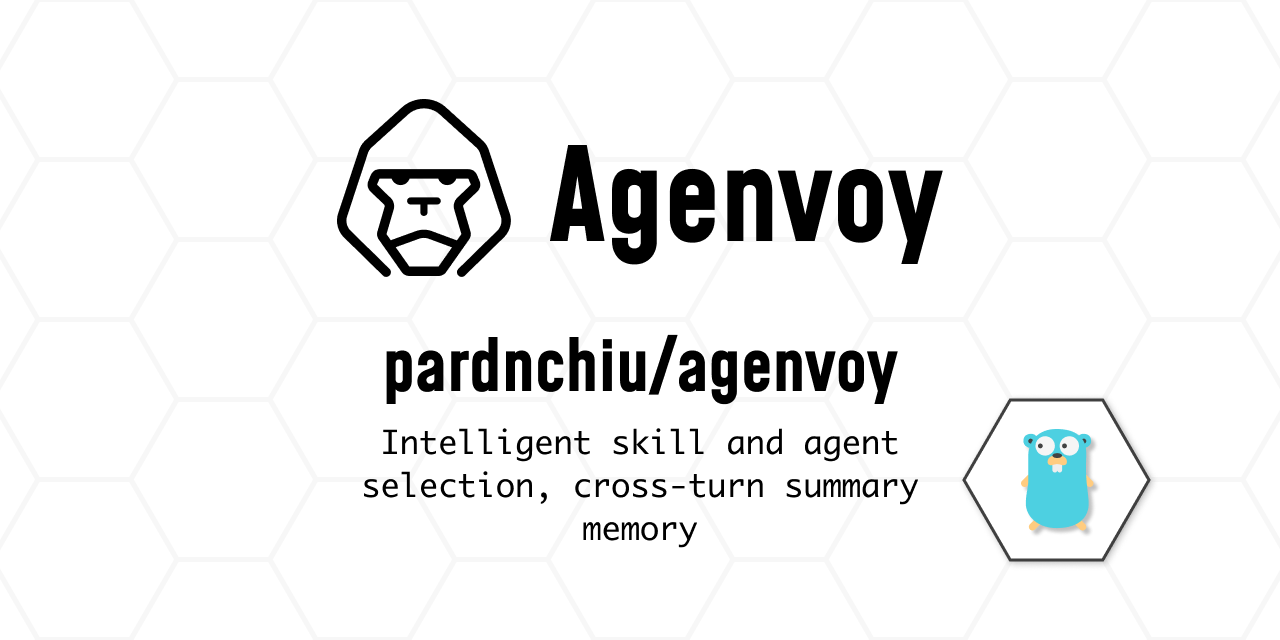
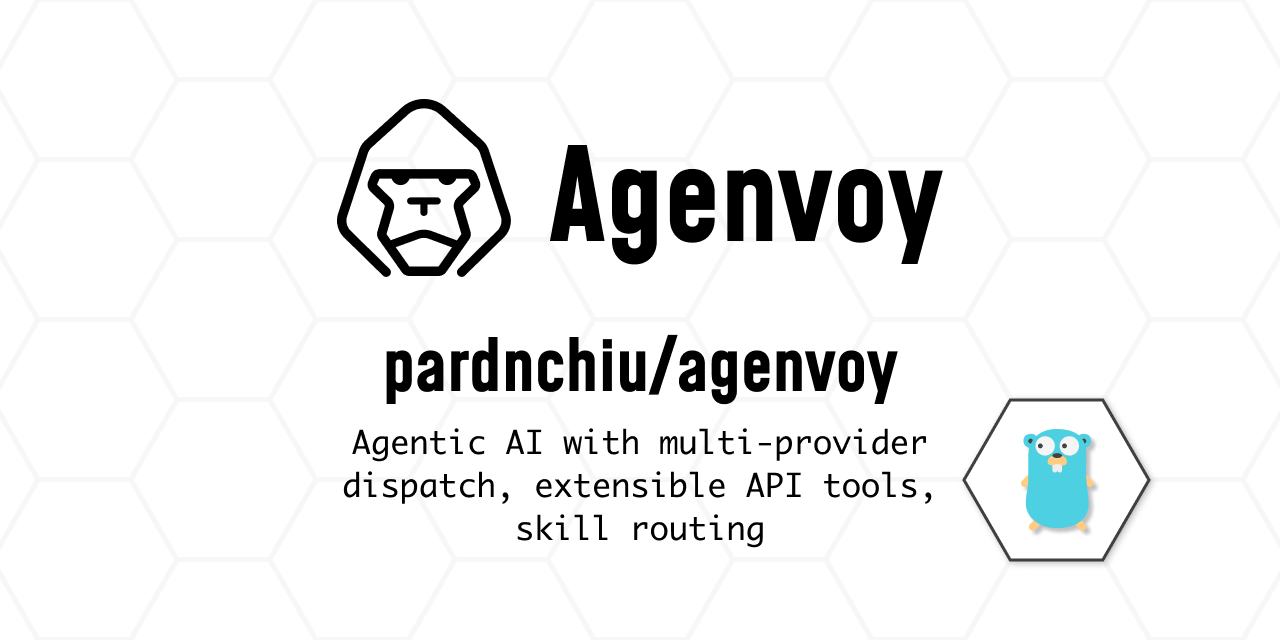
fix: Handle agent send errors gracefully instead of propagating to exit and add public API extensions for geocoding, finance, and data sources

Changed region(s): [[0.25, 0.6562, 0.7188, 0.8438]]

diff --git a/index.html b/index.html
@@ -18,9 +18,9 @@
     <meta name="title" content="AGENVOY — Agentic AI platform — 邱敬幃 Pardn Chiu" />
     <meta
       name="description"
-      content="A Go-based agentic AI platform with intent-to-skill routing, multi-provider LLM dispatch, cross-turn memory, and zero-code REST API tool mounting."
+      content="A Go agentic AI platform with multi-provider dispatch, extensible API tools, skill routing, and Discord bot integration"
     />
-    <meta name="keywords" content="go, golang, backend, agenttools, agentic-ai, agentskills, pardnchiu, 邱敬幃" />
+    <meta name="keywords" content="go, golang, agentic-ai, openclaw, 小龍蝦, pardnchiu, 邱敬幃" />
     <meta name="author" content="邱敬幃 Pardn Chiu" />
     <link rel="author" href="https://pardn.io" />
     <link rel="canonical" href="https://agenvoy.com/" />
@@ -32,7 +32,7 @@
     <meta property="og:title" content="AGENVOY — Agentic AI platform — 邱敬幃 Pardn Chiu" />
     <meta
       property="og:description"
-      content="A Go-based agentic AI platform with intent-to-skill routing, multi-provider LLM dispatch, cross-turn memory, and zero-code REST API tool mounting."
+      content="A Go agentic AI platform with multi-provider dispatch, extensible API tools, skill routing, and Discord bot integration"
     />
     <meta property="og:image" content="https://agenvoy.com/doc/cover.png" />
     <meta property="og:url" content="https://agenvoy.com/" />
@@ -45,7 +45,7 @@
     <meta property="twitter:title" content="AGENVOY — Intelligent skill and agent selection — 邱敬幃 Pardn Chiu" />
     <meta
       property="twitter:description"
-      content="A Go-based agentic AI platform with intent-to-skill routing, multi-provider LLM dispatch, cross-turn memory, and zero-code REST API tool mounting."
+      content="A Go agentic AI platform with multi-provider dispatch, extensible API tools, skill routing, and Discord bot integration"
     />
     <meta property="twitter:image" content="https://agenvoy.com/doc/cover.png" />
     <meta property="twitter:url" content="https://agenvoy.com/" />
@@ -83,11 +83,11 @@
         },
         "description": {
           "@language": "zh-TW",
-          "@value": "以 Go 語言打造的 Agentic AI 平台，具備意圖導向技能路由、多 Provider LLM 派發、跨回合記憶與零程式碼 REST API 工具掛載。"
+          "@value": "以 Go 打造的 AI Agent 平台，支援多模型智能調度、可擴充 API 工具、Skill 路由與 Discord Bot 整合"
         },
         "alternateDescription": {
           "@language": "en",
-          "@value": "A Go-based agentic AI platform with intent-to-skill routing, multi-provider LLM dispatch, cross-turn memory, and zero-code REST API tool mounting."
+          "@value": "A Go agentic AI platform with multi-provider dispatch, extensible API tools, skill routing, and Discord bot integration"
         },
         "url": ["https://agenvoy.com/"],
         "creator": {

diff --git a/internal/agents/exec/execute.go b/internal/agents/exec/execute.go
@@ -67,7 +67,11 @@ func Execute(ctx context.Context, data ExecData, session *agentTypes.AgentSessio
 		}
 		resp, err := data.Agent.Send(ctx, session.Messages, exec.Tools)
 		if err != nil {
-			return err
+			slog.Warn("data.Agent.Send",
+				slog.String("error", err.Error()))
+			events <- agentTypes.Event{Type: agentTypes.EventText, Text: "服務暫時無法使用，請稍後再試。"}
+			events <- agentTypes.Event{Type: agentTypes.EventDone}
+			return nil
 		}
 
 		if len(resp.Choices) == 0 {
